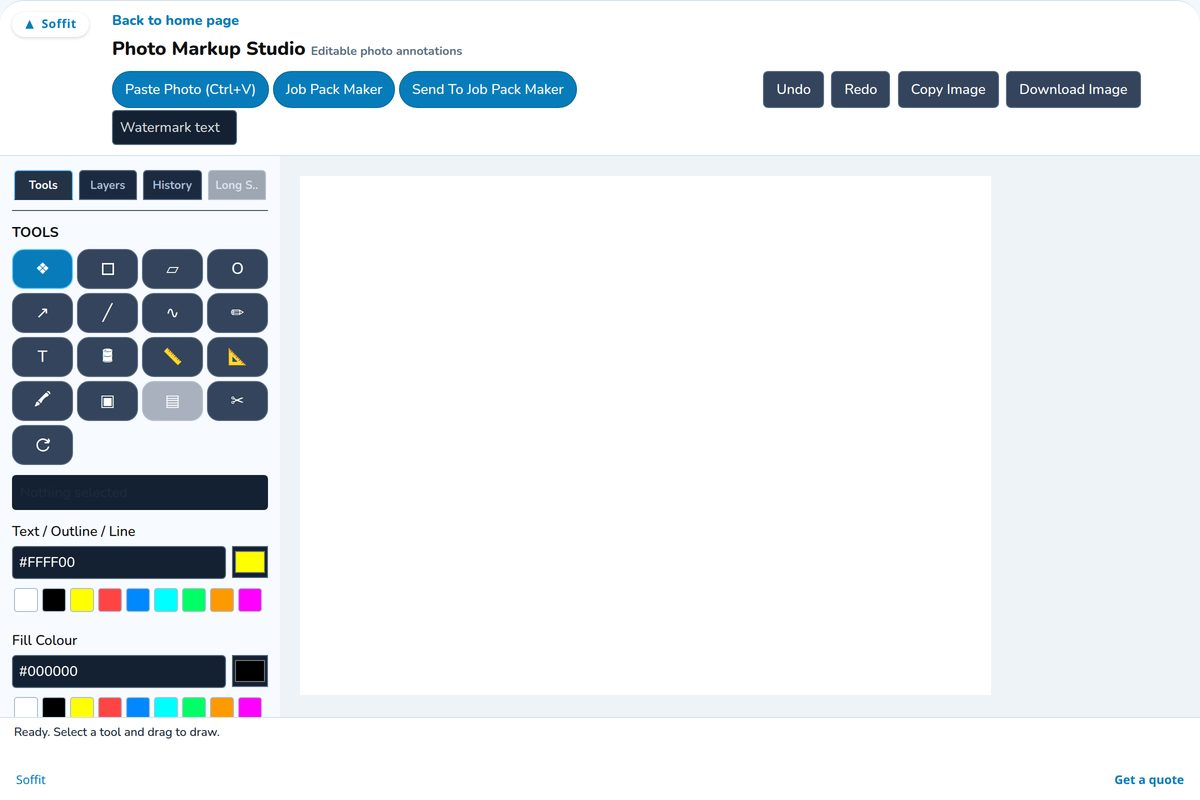
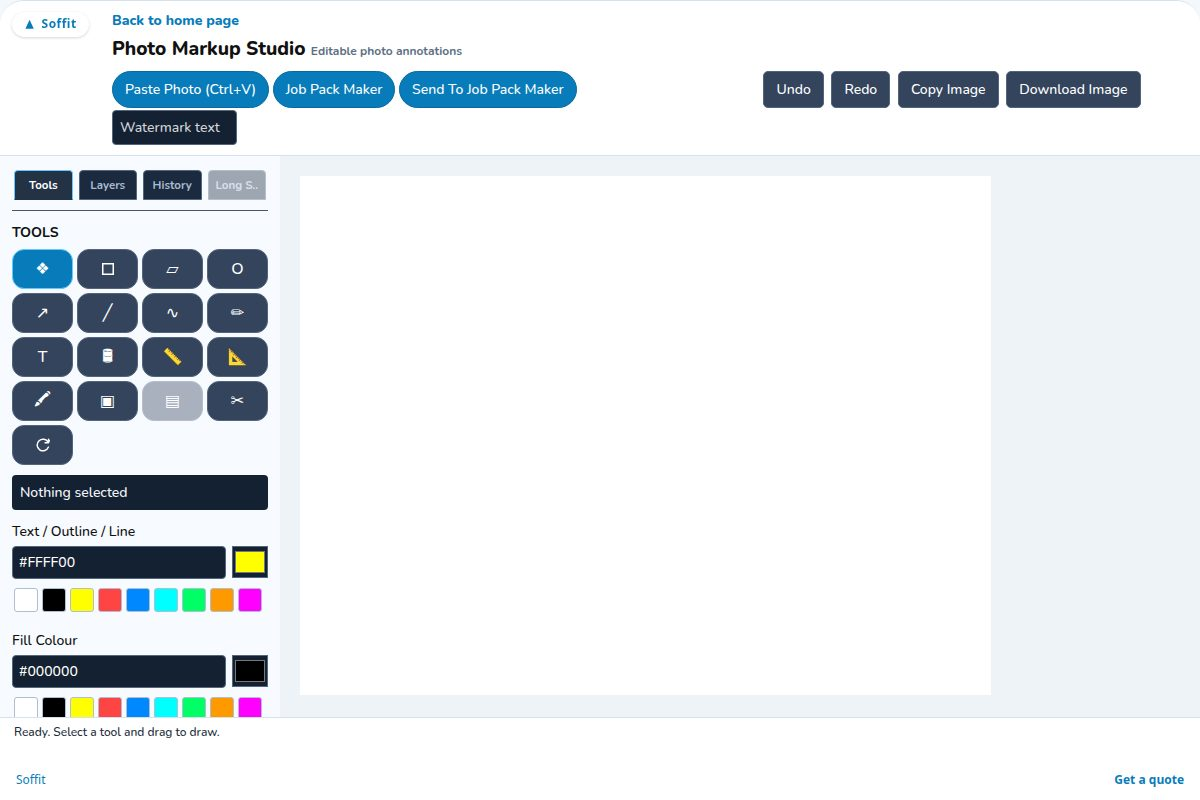
Version local image URLs and refresh the studio shot.
Browsers were keeping the old project cards and Custom Paint image. Every local image now uses the same asset version as the stylesheets, and the studio screenshot shows the readable selection bar.

diff --git a/includes/site.php b/includes/site.php
@@ -38,8 +38,29 @@ function site_asset_version(): string
 
 function site_asset(string $url): string
 {
-    if ($url === '' || preg_match('#^(https?:)?//#i', $url) === 1 || str_starts_with($url, 'data:')) {
+    if ($url === '' || str_starts_with($url, 'data:') || str_starts_with($url, 'mailto:') || str_starts_with($url, 'tel:')) {
         return $url;
+    }
+    $prefix = '';
+    if (preg_match('#^(https?:)?//#i', $url) === 1) {
+        $parts = parse_url($url);
+        $host = (string) ($parts['host'] ?? '');
+        $base_host = (string) parse_url(site_base(), PHP_URL_HOST);
+        if ($host === '' || ($base_host !== '' && strcasecmp($host, $base_host) !== 0)) {
+            return $url;
+        }
+        $scheme = (string) ($parts['scheme'] ?? 'https');
+        $prefix = $scheme . '://' . $host;
+        if (isset($parts['port'])) {
+            $prefix .= ':' . $parts['port'];
+        }
+        $url = (string) ($parts['path'] ?? '/');
+        if (isset($parts['query'])) {
+            $url .= '?' . $parts['query'];
+        }
+        if (isset($parts['fragment'])) {
+            $url .= '#' . $parts['fragment'];
+        }
     }
     $fragment = '';
     $hash = strpos($url, '#');
@@ -50,26 +71,41 @@ function site_asset(string $url): string
     $url = preg_replace('/([?&])v=[^&]*/', '$1', $url) ?? $url;
     $url = rtrim($url, '?&');
     $join = str_contains($url, '?') ? '&' : '?';
-    return $url . $join . 'v=' . rawurlencode(site_asset_version()) . $fragment;
+    return $prefix . $url . $join . 'v=' . rawurlencode(site_asset_version()) . $fragment;
 }
 
 function site_version_markup(string $html): string
 {
     $versioned = preg_replace_callback(
-        '#\b(href|src)=([\'"])([^\'"]+)\\2#i',
+        '#\b(href|src|srcset)=([\'"])([^\'"]+)\\2#i',
         static function (array $match): string {
+            $attr = $match[1];
+            $quote = $match[2];
             $url = $match[3];
-            if (preg_match('#\.(?:css|js)(?:$|\?)#i', $url) !== 1) {
+            if (strcasecmp($attr, 'srcset') === 0) {
+                $set = preg_replace_callback(
+                    '#\S+\.(?:css|js|png|jpe?g|gif|webp|avif|svg|ico)(?:\?[^\s,]*)?#i',
+                    static function (array $part): string {
+                        return site_asset($part[0]);
+                    },
+                    $url
+                );
+                $set = is_string($set) ? $set : $url;
+                return $attr . '=' . $quote . htmlspecialchars($set, ENT_QUOTES, 'UTF-8') . $quote;
+            }
+            if (preg_match('#\.(?:css|js|png|jpe?g|gif|webp|avif|svg|ico)(?:$|\?)#i', $url) !== 1) {
                 return $match[0];
             }
-            if (preg_match('#^(https?:)?//#i', $url) === 1) {
-                return $match[0];
-            }
-            return $match[1] . '=' . $match[2] . htmlspecialchars(site_asset($url), ENT_QUOTES, 'UTF-8') . $match[2];
+            return $attr . '=' . $quote . htmlspecialchars(site_asset($url), ENT_QUOTES, 'UTF-8') . $quote;
         },
         $html
     );
     return is_string($versioned) ? $versioned : $html;
+}
+
+if (PHP_SAPI !== 'cli' && !defined('SITE_ASSET_BUFFER')) {
+    define('SITE_ASSET_BUFFER', true);
+    ob_start('site_version_markup');
 }
 
 function site_canonical(string $path): string

diff --git a/includes/head.php b/includes/head.php
@@ -18,9 +18,9 @@ if ($page_path === '') {
 $canonical = $site_base . ($page_path === '/' ? '/' : $page_path);
 if (isset($page_og_image) && $page_og_image !== '') {
     $og_raw = (string) $page_og_image;
-    $og_image = str_starts_with($og_raw, 'http') ? $og_raw : $site_base . '/' . ltrim($og_raw, '/');
+    $og_image = str_starts_with($og_raw, 'http') ? site_asset($og_raw) : $site_base . site_asset('/' . ltrim($og_raw, '/'));
 } else {
-    $og_image = $site_base . '/Img/og.png';
+    $og_image = $site_base . site_asset('/Img/og.png');
 }
 $h = static function (string $value): string {
     return htmlspecialchars($value, ENT_QUOTES, 'UTF-8');
